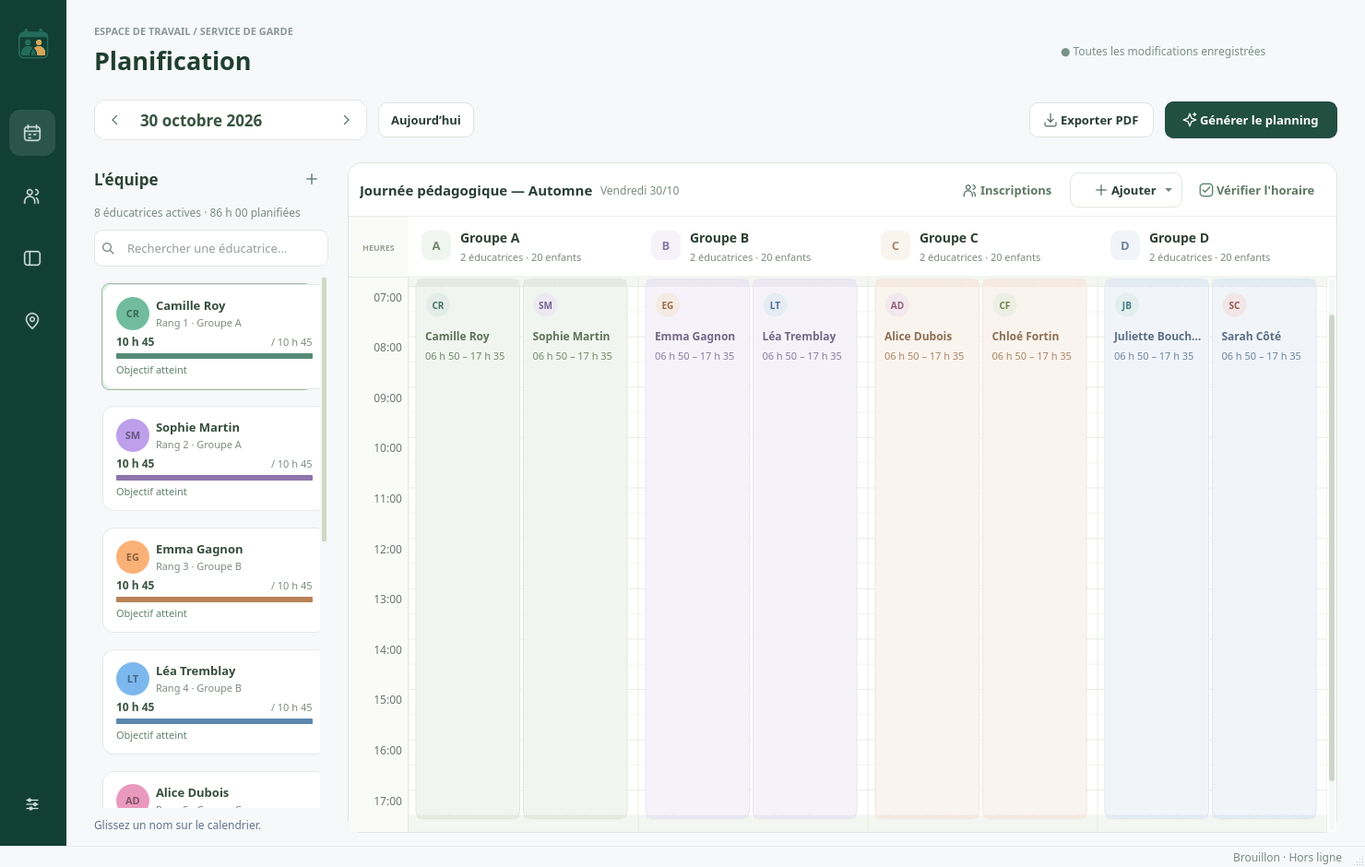
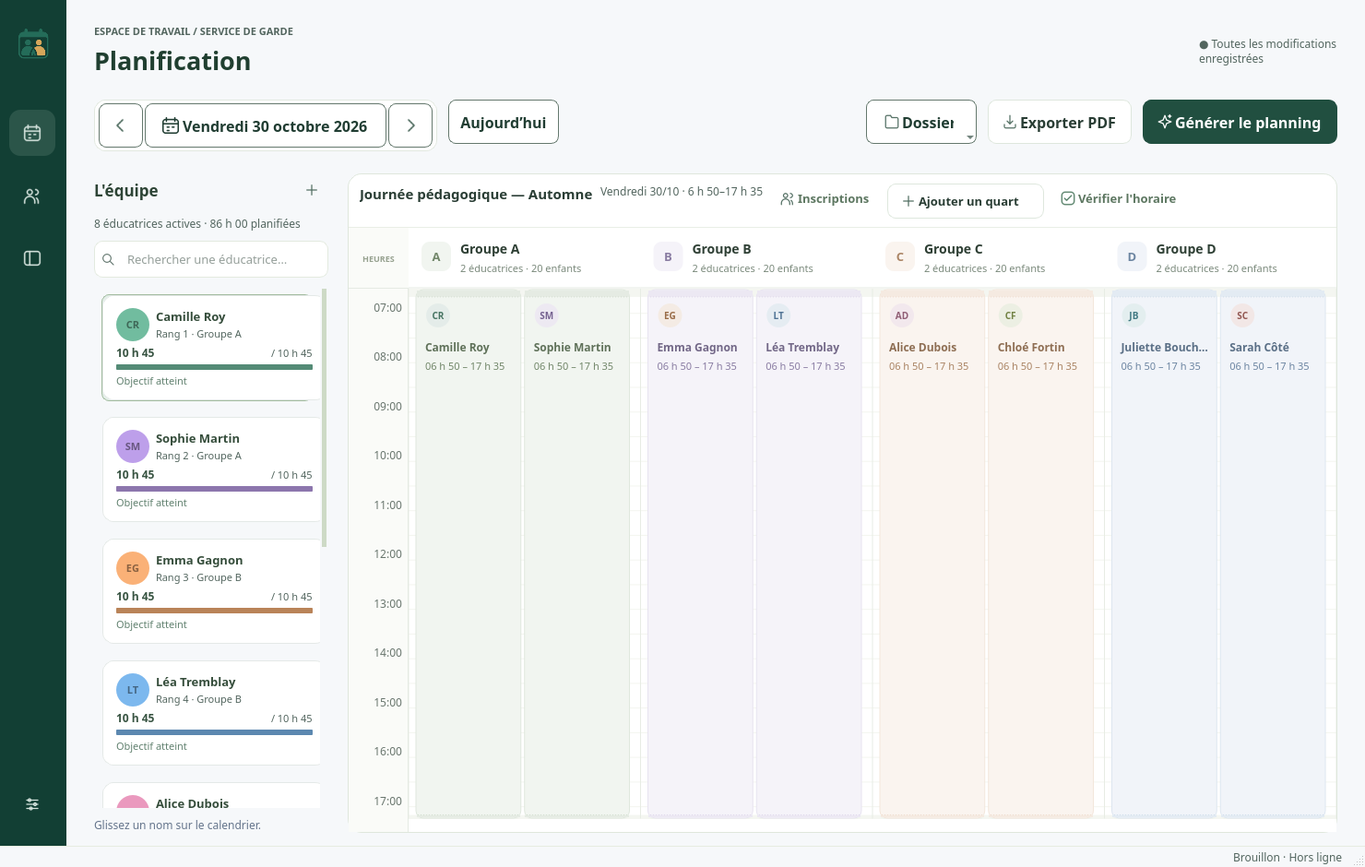
Présenter professionnellement la version 0.2.1, son origine familiale et ses contrôles de lisibilité

diff --git a/README.md b/README.md
@@ -1,97 +1,123 @@
-# Planificateur — Service de garde
+<p align="center">
+  <img src="gardeplan/assets/logo.svg" width="76" alt="Logo du Planificateur — Service de garde">
+</p>
 
-Application de bureau en français pour planifier **une journée pédagogique à la fois** dans un service de garde scolaire au Québec. Les données demeurent sur le poste, dans SQLite. Aucun compte, serveur ou abonnement ; aucun accès réseau dans l'application.
+<h1 align="center">Planificateur — Service de garde</h1>
 
-## Version 0.2.0 — planification d’une journée pédagogique
+<p align="center"><strong>Version 0.2.1 · Portable, sans installation</strong></p>
 
-![Aperçu du tableau de planification](docs/apercu-interface.png)
+<p align="center">
+  <strong>Des horaires clairs pour chaque journée pédagogique.</strong><br>
+  Une application de bureau en français, pour Windows et macOS, entièrement utilisable hors ligne.
+</p>
 
-- Écran inspiré de la référence fournie : navigation vert foncé, calendrier blanc et blocs pastel, fiches avec initiales.
-- Une date et un nom facultatif par journée ; aucune vue hebdomadaire dans le parcours de planification.
-- Calendrier quotidien, groupes en colonnes, quarts à la minute, glisser-déposer et redimensionnement.
-- Couleur distincte attribuée à chaque création d’éducatrice, modifiable ; rang choisi de **1 à 11**, avec rangs intermédiaires libres.
-- Heures cibles/garanties/maximales, disponibilités, absences et préférences **pour la journée**.
-- Journées nommées et répartition des inscriptions en groupes de taille configurable.
-- Activités et locaux indépendants des quarts ; alertes de couverture et de conflits.
-- Validation continue, proposition automatique CP-SAT, quarts verrouillés et annulation.
-- Historique, statut, archives et duplication indépendants pour chaque date ; sauvegardes locales. Les anciennes semaines restent conservées et consultables par journée.
-- **Un seul PDF général**, lettre paysage, selon le modèle fourni : huit éducateurs par page, grille 7 h–18 h, couleurs par groupe, coupures et interruptions laissées vides.
+<p align="center">
+  <a href="https://github.com/GraphicShack/Planificateur-Service-de-garde/releases/download/v0.2.1/Planificateur-SDG-0.2.1-Windows-x64-Portable.zip">Télécharger pour Windows</a>
+  &nbsp;·&nbsp;
+  <a href="https://github.com/GraphicShack/Planificateur-Service-de-garde/releases/download/v0.2.1/Planificateur-SDG-0.2.1-macOS-arm64-Portable.zip">Télécharger pour Mac</a>
+  &nbsp;·&nbsp;
+  <a href="docs/GUIDE.md">Guide d’utilisation</a>
+</p>
 
-Les règles initiales sont : ouverture à 7 h avec deux éducatrices dès 6 h 50, fermeture à 17 h 30 avec deux jusqu'à 17 h 35, relève de quinze minutes, couverture continue et ratio de 1/20 avec au moins deux éducatrices par groupe actif. Le ratio et les paramètres restent configurables. Les buffers rémunérés n'assurent pas automatiquement la couverture des enfants.
+![Aperçu du planificateur avec des données fictives](docs/apercu-interface.png)
 
-## Version prête à utiliser, sans installation
+[Voir le sélecteur de journée accessible](docs/selection-journee.png)
 
-La version **0.2.0** regroupe la planification quotidienne, les couleurs automatiques, les rangs de 1 à 11 et le nouveau PDF unique. La publication de cette livraison a été autorisée explicitement par le responsable du projet.
+## L’histoire du projet
 
-La livraison principale est un **ZIP portable**, disponible dans les [téléchargements publics du projet](https://github.com/GraphicShack/Planificateur-Service-de-garde/releases/latest). **Aucune connexion GitHub n'est nécessaire.**
+J’ai commencé ce projet pour aider ma mère à répondre à un besoin informatique concret : préparer les horaires d’un service de garde. Elle avait besoin d’un outil simple pour répartir son équipe, ajuster les heures et produire un document facile à imprimer.
 
-- [Télécharger pour Windows 64 bits](https://github.com/GraphicShack/Planificateur-Service-de-garde/releases/download/v0.2.0/Planificateur-SDG-0.2.0-Windows-x64-Portable.zip).
-- [Télécharger pour Mac Apple Silicon, macOS 15+](https://github.com/GraphicShack/Planificateur-Service-de-garde/releases/download/v0.2.0/Planificateur-SDG-0.2.0-macOS-arm64-Portable.zip).
+Derrière une grille d’horaire se cachent beaucoup de détails : les inscriptions changent, les éducatrices doivent se relayer, les pauses doivent être couvertes et personne ne peut laisser un groupe sans surveillance. Le logiciel s’est construit autour de ces besoins, avec une priorité constante : rendre la planification plus claire et plus facile à utiliser.
 
-Décompressez le dossier complet dans un emplacement autorisé en écriture ou sur une clé USB, puis ouvrez **`Planificateur-SDG.exe`** sous Windows ou **`Planificateur-SDG.app`** sous macOS. Aucun programme d’installation, Python, compte ni connexion Internet n’est nécessaire sur le poste cible. Gardez le dossier complet : les horaires et sauvegardes restent dans son sous-dossier **`donnees`**. Les liens GitHub Actions servent aux diagnostics de compilation et peuvent exiger une connexion ; les utilisateurs téléchargent les ZIP de la section **Releases**.
+Aujourd’hui, le planificateur se concentre sur une journée pédagogique à la fois, de sa préparation jusqu’à l’impression de l’horaire.
 
-Depuis la version **0.1.2**, le démarrage Mac gère les copies temporaires AppTranslocation : il retrouve le dossier portable d’origine ou vous demande de le sélectionner, puis rouvre les données de ce dossier. Aucun réglage de sécurité n’est modifié.
+## L’essentiel, dans un seul espace
 
-Les contrôles de construction vérifient le mode portable et l’écriture réelle des données à côté du logiciel, puis refont le contrôle après extraction du ZIP. Le poste doit permettre l’exécution de ce logiciel portable et l’écriture dans le dossier choisi.
+- **Choisir une journée** dans un calendrier lisible, utilisable au clavier, avec la date complète toujours affichée.
+- **Organiser l’équipe** : une couleur attribuée à chaque nouvelle éducatrice, des heures journalières et un rang de 1 à 11. Les rangs intermédiaires peuvent rester libres.
+- **Préparer les groupes** à partir des inscriptions et de la taille souhaitée des groupes.
+- **Ajuster les quarts à la minute** par glisser-déposer, redimensionnement ou saisie exacte, avec pauses et temps de préparation.
+- **Vérifier la couverture** et demander une proposition automatique respectant les contraintes et les quarts verrouillés.
+- **Enregistrer et retrouver les horaires** depuis le bouton Dossier : ouverture, duplication, historique et sauvegardes locales.
+- **Imprimer un seul PDF général**, au format lettre paysage, avec huit éducateurs maximum par page et une couleur stable par groupe. Les interruptions restent vides.
 
-## Construire sur Mac
+L’interface se consacre aux horaires. Chaque date conserve ses propres inscriptions, affectations, heures et versions.
 
-Sur un Mac de compilation équipé de Python 3.12 :
+## Une journée, des règles explicites
 
-```bash
-bash scripts/build-macos.sh
-```
+| Repère | Configuration de départ |
+| --- | --- |
+| Présence du personnel | **6 h 50 à 17 h 35** |
+| Accueil des enfants | **7 h à 17 h 30** |
+| Préparation et fermeture | Deux éducatrices pour ouvrir et deux pour fermer |
+| Relève | Quinze minutes de présence commune |
+| Couverture | Continue, avec au moins deux éducatrices par groupe actif |
+| Ratio de départ | Un éducateur pour vingt enfants, configurable |
 
-Le résultat est `dist/macos/Planificateur-SDG-<version>-macOS-<architecture>-Portable.zip`. Une construction cible `arm64` ou `x86_64`, selon le Python natif utilisé. L’application reste dans son dossier portable ; aucun déplacement vers Applications n’est demandé. Voir la [procédure macOS](docs/DISTRIBUTION_MACOS.md).
+Les heures sont calculées en minutes entières. La présence, la rémunération et la couverture des enfants sont distinguées : une pause ou un temps de préparation ne constitue pas automatiquement de la surveillance. Le ratio configuré décrit le fonctionnement demandé ; il n’est pas présenté comme une disposition réglementaire.
 
-Vous pouvez aussi lancer **« Vérifier et construire macOS »** dans GitHub Actions et récupérer l’artefact **`Planificateur-SDG-Portable-macOS-<architecture>`** après réussite. Depuis votre Mac, le workflow **Windows** construit séparément le ZIP `.exe` sur un runner Windows.
+## Prise en main
 
-## Construire pour Windows
+1. Téléchargez le ZIP correspondant à votre ordinateur depuis les [versions publiées](https://github.com/GraphicShack/Planificateur-Service-de-garde/releases/latest).
+2. Extrayez **tout le dossier** dans un emplacement où vous pouvez enregistrer des fichiers, par exemple Documents.
+3. Ouvrez **Planificateur-SDG.exe** sous Windows ou **Planificateur-SDG.app** sous macOS.
 
-Sur un poste de compilation Windows avec Python 3.12 64 bits :
+Aucune installation de Python, aucun compte et aucun abonnement ne sont nécessaires sur le poste utilisateur. La version Mac proposée cible **Apple Silicon et macOS 15 ou plus récent**.
 
-```powershell
-powershell -ExecutionPolicy Bypass -File .\scripts\build-windows.ps1
-```
+Vos données restent dans le sous-dossier **donnees**, à côté du programme. Gardez le dossier complet et fermez le logiciel avant de le déplacer. Pour une mise à jour, faites une sauvegarde et conservez votre dossier **donnees** dans la nouvelle version extraite.
 
-Le résultat principal est **`dist/Planificateur-SDG-Portable.zip`**. Le script par défaut ne dépend pas d’Inno Setup et n’exécute aucune installation ou désinstallation système. Il teste le binaire, le dossier portable et l’archive extraite. Le workflow **« Vérifier et construire Windows »** remet l’artefact **`Planificateur-SDG-Portable-Windows`** contenant le ZIP et ses comptes rendus. Voir la [procédure Windows](docs/DISTRIBUTION_WINDOWS.md).
+## Un horaire prêt à imprimer
 
-Les versions **0.2.0** ont réussi **158 tests chacune**, ainsi que les contrôles natifs après extraction du ZIP. Les [résultats réellement vérifiés](docs/ETAT_VERIFICATION.md) donnent les exécutions et rapports correspondants. La publication exige l’accord du responsable pour un SHA précis, enregistré dans `.github/release-request.json`, ou une confirmation manuelle avec ce SHA. Les changements ordinaires du code ne sont pas publiés automatiquement. Le workflow **Publier les téléchargements portables** exige les deux constructions réussies du code approuvé et les rapports natifs. Chaque livraison contient les ZIP directement utilisables, les rapports et les sommes SHA-256. Augmentez la version avant de publier une nouvelle livraison ; une version publiée reste figée.
+Le PDF reprend le modèle de journée pédagogique fourni : titre à gauche, date à droite, noms des éducateurs puis grille de **6 h 50 à 17 h 35**, avec repères de trente minutes et blocs positionnés à la minute. Les horaires coupés apparaissent sur une même ligne ; l’en-tête, la légende et l’échelle sont repris sur chaque page.
 
-## Développement : lancer depuis les sources
+[Consulter un exemple de PDF](docs/exemple-horaire-pedagogique.pdf)
 
-Python 3.11 ou 3.12 recommandé. Le téléchargement des dépendances nécessite Internet une première fois ; l'utilisation est ensuite hors ligne.
+## Les difficultés rencontrées
 
-Sous Windows, double-cliquer sur `scripts/lancer-windows.bat`, ou dans PowerShell depuis le dossier du projet :
+**Respecter les heures réelles.** Les besoins dépassaient une simple grille par heure : il fallait conserver chaque minute et distinguer les buffers, les pauses, le temps payé et la couverture effective des groupes.
 
-```powershell
-py -3.12 -m venv .venv
-.\.venv\Scripts\python.exe -m pip install -e ".[dev]"
-.\.venv\Scripts\python.exe -m gardeplan
-```
+**Trouver une interface suffisamment simple.** Le projet a évolué vers une planification quotidienne, un calendrier plus lisible et un menu Dossier centralisé. La taille des textes, les contrastes et les zones cliquables font partie des critères de vérification.
 
-Sous Linux :
+**Livrer sans installation.** Python, Qt et les autres dépendances sont inclus dans les distributions portables. Sur Mac, une difficulté particulière venait d’AppTranslocation, qui peut lancer une copie temporaire en lecture seule. Le démarrage retrouve le dossier d’origine ou permet de le choisir. L’autorisation d’ouverture de macOS reste distincte : la distribution ne possède pas de notarisation Apple.
+
+**Préserver les horaires existants.** Le passage d’un fonctionnement hebdomadaire à des journées indépendantes a nécessité une migration avec copie de sécurité, tout en conservant les anciennes photographies et leurs historiques.
+
+**Rendre les fichiers faciles à récupérer et à imprimer.** Les téléchargements destinés aux utilisateurs sont publiés dans les Releases, accessibles sans compte GitHub. Le rendu PDF a été adapté au modèle fourni, aux coupures d’horaire et à la pagination de huit noms par page.
+
+## Données et fiabilité
+
+Les données sont enregistrées localement dans SQLite. L’application n’utilise aucun serveur distant et ne transmet pas les horaires. Les renseignements sur les élèves se limitent aux effectifs ; aucun nom d’élève n’est nécessaire.
+
+La sauvegarde automatique, l’annulation, les copies de sécurité et l’historique accompagnent le travail quotidien. Les erreurs de couverture empêchent la publication d’un horaire ; un brouillon reste enregistrable pour poursuivre les corrections.
+
+Les constructions Windows et Mac exécutent les tests puis vérifient le programme compilé, y compris après extraction du ZIP : calendrier, choix de date, SQLite, génération et PDF. Les résultats et les limites des contrôles sont détaillés dans l’[état des vérifications](docs/ETAT_VERIFICATION.md).
+
+## Documentation
+
+| Besoin | Document |
+| --- | --- |
+| Utiliser le planificateur | [Guide d’utilisation](docs/GUIDE.md) |
+| Comprendre les règles et la couverture fonctionnelle | [Exigences et contrôles](docs/EXIGENCES.md) |
+| Comprendre le code et les données | [Architecture](docs/ARCHITECTURE.md) |
+| Construire une version Windows | [Distribution Windows](docs/DISTRIBUTION_WINDOWS.md) |
+| Construire une version Mac | [Distribution macOS](docs/DISTRIBUTION_MACOS.md) |
+| Consulter les résultats de tests | [État des vérifications](docs/ETAT_VERIFICATION.md) |
+
+<details>
+<summary><strong>Pour les développeurs</strong></summary>
+
+Le projet utilise Python 3, PySide6, SQLite, OR-Tools CP-SAT et ReportLab. Les paquets autonomes sont construits nativement avec PyInstaller. Python 3.12 64 bits est utilisé pour les distributions.
+
+Après création et activation d’un environnement virtuel :
 
 ```sh
-python3 -m venv .venv
-.venv/bin/python -m pip install -e '.[dev]'
-.venv/bin/python -m gardeplan
-```
-
-`python -m gardeplan --example` ouvre une base d'exemple distincte, contenant des noms fictifs. Sans cet argument, l'application démarre avec la dernière journée sauvegardée ou une journée vide. `--database chemin.sqlite` permet de choisir un autre emplacement. Les fichiers SQLite personnels sont exclus de Git.
-
-## Tests et documentation
-
-```sh
+python -m pip install -e '.[dev]'
+python -m gardeplan
 python -m pytest -q
 ```
 
-Pour les tests graphiques sans écran, définir `QT_QPA_PLATFORM=offscreen`.
+`python -m gardeplan --example` utilise une base distincte avec des données fictives. Les dépendances sont téléchargées pendant la préparation du poste de développement ; le logiciel livré fonctionne ensuite hors ligne.
 
-- [Guide d'utilisation](docs/GUIDE.md)
-- [Architecture et conventions](docs/ARCHITECTURE.md)
-- [Matrice des exigences et limites](docs/EXIGENCES.md)
-- [Résultats réellement vérifiés et contrôles restants](docs/ETAT_VERIFICATION.md)
-- [Exemple du PDF unique (deux pages)](docs/exemple-horaire-pedagogique.pdf)
+La génération automatique recherche parmi des quarts candidats. Une absence de solution dans ces candidats ne prouve pas l’impossibilité de tout horaire théorique ; la proposition est vérifiée avant acceptation.
 
-Le solveur choisit parmi des quarts candidats : un échec de cette recherche n'est pas une preuve universelle d'impossibilité. Les restrictions écrites en notes libres ne sont pas interprétées ; saisir les contraintes obligatoires dans les champs structurés. Toute proposition est validée avant acceptation et toute publication comportant une erreur est refusée.
+</details>

diff --git a/docs/GUIDE.md b/docs/GUIDE.md
@@ -6,9 +6,9 @@ L’équipe reste à gauche et le calendrier occupe le reste de l’écran. Les 
 
 - **Ajouter** propose un quart ou une activité.
 - **Vérifier** ouvre le détail des alertes ; **Fermer** redonne toute la place au calendrier. La validation continue même lorsque ce panneau est fermé.
-- **Menu → Organisation** contient les groupes, locaux, profils et règles.
+- **Menu → Organisation** contient les groupes, profils et règles.
 - **Menu → Affichage** permet de régler le zoom, le magnétisme et la visibilité du panneau de l’équipe.
-- **Menu** regroupe aussi l’annulation, la sauvegarde manuelle, le statut, l’historique et les sauvegardes locales.
+- **Dossier** regroupe l’enregistrement, l’ouverture des journées, la duplication, l’historique et les sauvegardes. **Menu** conserve les règles, le statut, l’affichage et l’annulation.
 
 ## Préparer une journée pédagogique
 
@@ -16,9 +16,9 @@ L’équipe reste à gauche et le calendrier occupe le reste de l’écran. Les 
 2. Cliquez sur le **+ de L’équipe**. Une couleur encore inutilisée est proposée automatiquement ; vous pouvez la changer dans le profil. Choisissez le **rang de 1 à 11** : le rang 1 est le plus ancien, et des rangs peuvent rester libres (1, 4, 9, par exemple). Aucun profil n’est renuméroté automatiquement.
 3. Saisissez les heures cibles, garanties et maximales **pour cette journée**. Une cible de zéro signifie « à définir ». Précisez les disponibilités et absences si nécessaire.
 4. Cliquez sur **Inscriptions** : indiquez le nombre d’enfants, la taille souhaitée des groupes et le nom facultatif de la journée. Les groupes sont préparés pour cette seule date. Le minimum de deux éducatrices et le ratio configuré restent contrôlés.
-5. Ajoutez les locaux depuis l’icône de lieu à gauche si vous prévoyez des activités.
+5. Ajoutez les quarts ou demandez une proposition automatique. L’interface gère uniquement les horaires.
 
-Une nouvelle date reprend les profils et paramètres utiles. Ses inscriptions, quarts et activités restent vides ; les absences de l’ancienne date ne sont pas recopiées. Pour reprendre aussi un horaire complet, utilisez **Menu → Journées et historique → Dupliquer cette journée** et choisissez une date vide.
+Une nouvelle date reprend les profils et paramètres utiles. Ses inscriptions et quarts restent vides ; les absences de l’ancienne date ne sont pas recopiées. Pour reprendre aussi un horaire complet, utilisez **Dossier → Dupliquer cette journée** et choisissez une date vide.
 
 ## Planifier dans le calendrier
 
@@ -36,13 +36,9 @@ Pour une journée ouverte de 7 h à 17 h 30, prévoyez deux éducatrices dès 6 
 
 Pour une relève à 12 h 30, l'éducatrice entrante peut commencer sa présence à 12 h 15 avec quinze minutes de préparation avant sa couverture de 12 h 30. L'éducatrice sortante reste présente pendant ces quinze minutes. Le besoin de couverture du groupe doit rester satisfait, même pendant les pauses et les relèves.
 
-## Activités et locaux
-
-Une activité se planifie séparément des quarts. Changer « Jeux extérieurs » de la cour au parc ne modifie pas les heures des éducatrices. Les conflits de lieu, capacités et disponibilités apparaissent dans les alertes. La responsabilité et la couverture découlent des affectations réellement présentes.
-
 ## Lire et corriger les alertes
 
-Les erreurs empêchent la publication, mais permettent de sauvegarder un brouillon. Elles concernent notamment un manque de personnel, un chevauchement de groupes pour une même éducatrice, une indisponibilité ou un conflit de local. Les avertissements signalent les écarts d'heures ou préférences.
+Les erreurs empêchent la publication, mais permettent de sauvegarder un brouillon. Elles concernent notamment un manque de personnel, un chevauchement de groupes pour une même éducatrice, une indisponibilité ou une limite d’heures. Les avertissements signalent les écarts d'heures ou préférences.
 
 Après une modification, consultez le compteur **Vérifier** et cliquez dessus pour ouvrir la liste des alertes. Les messages indiquent la journée, l'intervalle et le groupe concernés, avec une piste de correction lorsqu'elle est disponible.
 
@@ -52,9 +48,9 @@ Cliquez sur « Générer ». Le moteur respecte les contraintes obligatoires qu'
 
 ## Sauvegarder, revenir en arrière et exporter
 
-Sauvegardez régulièrement et utilisez l'export de sauvegarde locale avant un changement important. Les anciennes versions de chaque journée restent consultables dans **Menu → Journées et historique**. Une restauration crée une nouvelle version ; une duplication permet de réutiliser une journée. Une publication conserve sa photographie historique.
+Sauvegardez régulièrement et utilisez l'export de sauvegarde locale avant un changement important. Les anciennes versions de chaque journée restent consultables dans **Dossier → Historique des versions**. Une restauration crée une nouvelle version ; une duplication permet de réutiliser une journée. Une publication conserve sa photographie historique.
 
-**Exporter PDF** enregistre directement un seul horaire général de la journée, sans choix de formats individuels. Le document reprend le modèle fourni : lettre paysage, titre à gauche, date à droite, colonne des noms puis grille 7 h–18 h avec repères de 30 minutes, huit éducateurs maximum par page. Les blocs indiquent leur groupe et leurs heures exactes ; un même groupe garde la même couleur sur toutes les pages. Les pauses, rémunérées ou non, et les interruptions restent simplement vides. Aucun compteur ni colonne d’activité n’est ajouté. **Menu → Aperçu avant impression** ouvre ce même document. Pour une sauvegarde informatique complète, utilisez la sauvegarde locale SQLite ; un PDF sert à consulter ou imprimer et ne remplace pas la base.
+**Exporter PDF** enregistre directement un seul horaire général de la journée, sans choix de formats individuels. Le document reprend le modèle fourni : lettre paysage, titre à gauche, date à droite, colonne des noms puis grille 6 h 50–17 h 35 avec repères de 30 minutes, huit éducateurs maximum par page. Les blocs indiquent leur groupe et leurs heures exactes ; un même groupe garde la même couleur sur toutes les pages. Les pauses, rémunérées ou non, et les interruptions restent simplement vides. Aucun compteur ni colonne d’activité n’est ajouté. **Menu → Aperçu avant impression** ouvre ce même document. Pour une sauvegarde informatique complète, utilisez la sauvegarde locale SQLite ; un PDF sert à consulter ou imprimer et ne remplace pas la base.
 
 ## Ouvrir la version portable, sans installation
 
@@ -90,4 +86,13 @@ Les anciens objectifs hebdomadaires ne deviennent pas des obligations journaliè
 
 Les points de départ et d’arrivée des blocs sont calculés à la minute, sans arrondi à la demi-heure. Les repères de 30 minutes servent uniquement à lire la grille. Un horaire coupé crée plusieurs blocs distincts sur une seule ligne. De 1 à 8 éducateurs, le document a une page ; de 9 à 16, deux pages ; le même en-tête, la date, la légende et l’échelle sont repris sur chacune.
 
-La grille demandée commence à 7 h. La présence de préparation dès 6 h 50 reste indiquée par son heure exacte dans le bloc et une mention au bas de la page ; elle n’est pas arrondie à 7 h ni perdue. Les plages entièrement hors de la grille sont indiquées au bas de la page. Le PDF d’exemple reprend les données fictives des pièces jointes.
+La grille commence exactement à 6 h 50 et se termine à 17 h 35. Les dix minutes d’ouverture et les cinq minutes de fermeture font partie de la présence rémunérée, sans être confondues avec la couverture des enfants.
+## Choisir la date au clavier
+
+La barre affiche la date complète, par exemple « Lundi 26 octobre 2026 ». Entrée, Espace, F4 ou Alt + Flèche bas ouvrent le calendrier. Ses cases font au moins 44 × 44 pixels et les dates utilisent un texte d’au moins 16 pixels. Le mois et l’année sont modifiables directement.
+
+Dans la grille, les flèches déplacent le focus ; Page précédente/suivante change de mois et Ctrl + Page change d’année. Entrée ou Espace choisit la date ; Échap ferme sans modifier l’horaire. Le bouton Aujourd’hui choisit la date actuelle. La sélection reste simple : une journée à la fois.
+
+Le vert forêt identifie la sélection. Aujourd’hui conserve un contour et un point, même s’il est sélectionné. Les jours voisins portent leur mois abrégé ; les jours indisponibles sont barrés. Sur un petit écran ou à 200 %, les contrôles gardent leur taille et le panneau peut défiler. La barre principale remet ses actions sur plusieurs lignes ; le panneau d’équipe se replie sur une fenêtre étroite et peut être rouvert par son icône.
+
+La sauvegarde automatique est conservée. Si l’enregistrement échoue, le changement de date est annulé pour garder les modifications en cours à l’écran.

diff --git a/docs/ETAT_VERIFICATION.md b/docs/ETAT_VERIFICATION.md
@@ -2,6 +2,25 @@
 
 Les constructions et les contrôles natifs s’exécutent sur GitHub Actions. Les fichiers à remettre sont les ZIP portables d’une exécution réussie correspondant au code voulu. Une sortie compilée dont le contrôle échoue n’est pas livrée.
 
+## Livraison 0.2.1 — sélecteur lisible et horaires uniquement
+
+La [version 0.2.1](https://github.com/GraphicShack/Planificateur-Service-de-garde/releases/tag/v0.2.1) est publiée à la demande explicite du responsable du projet. Les constructions du code `61aeb0f4664ac55e880857ac90362e811bb4c5b4` ont réussi **176 tests chacune**, plus les six sous-cas de pagination et les contrôles des ZIP extraits :
+
+- [Windows — 176 tests et paquet portable vérifié](https://github.com/GraphicShack/Planificateur-Service-de-garde/actions/runs/40622502409).
+- [Mac — 176 tests et paquet portable vérifié](https://github.com/GraphicShack/Planificateur-Service-de-garde/actions/runs/40622502394).
+
+Les nouveaux contrôles utilisent les véritables événements QTest pour le clavier, le survol et le focus ; ils vérifient les passages de mois/d’année, l’année bissextile, les limites de dates, la sélection simple, l’annulation et le chargement du planning après sélection. Un sous-processus Qt6 avec `QT_SCALE_FACTOR=2` vérifie une fenêtre de 360 × 330 pixels logiques à 200 %, sans réduire les cases ni les caractères. Le diagnostic du binaire gelé ouvre et dessine aussi le sélecteur, avec une cible minimale de 44 × 44.
+
+Les paires de texte du sélecteur ont un contraste de 5,63:1 à 11,83:1. Les dates et contrôles principaux sont à 16 px minimum, le mois et l’année à 20 px gras. Les voisins affichent leur mois, les dates indisponibles sont barrées et aujourd’hui conserve contour et point sur la sélection. Les boutons principaux et les actions du calendrier se réorganisent dans une fenêtre étroite ; le sélecteur défile au besoin.
+
+Le menu Dossier a été testé avec ses vrais rappels d’enregistrement, ouverture, duplication, historique, export/import de sauvegarde. Les activités et locaux historiques ne sont plus exposés dans l’interface quotidienne et ne bloquent pas les horaires ; leur présence dans les données a fait l’objet d’un test de conservation.
+
+Le calendrier et le PDF utilisent les bornes exactes 6 h 50 et 17 h 35. Un quart quotidien extérieur à la plage configurée est signalé. Le nouvel exemple PDF a été rendu et inspecté avec huit éducateurs fictifs et des heures conformes aux règles de couverture.
+
+Les aperçus publiés ont été produits par le code réel avec l’adaptateur Qt5 temporaire du poste Linux, non livré. Les vérifications Qt6 proviennent des exécutions natives ci-dessus. Un second aperçu local à 200 % confirme un DPR de 2, des cases de 44 pixels minimum et une police de 16 pixels ; il complète le test natif sans le remplacer.
+
+Le premier passage a révélé un nom d’énumération Qt5 utilisé dans le test d’annulation. Le test a été adapté à Qt6 et les deux suites complètes ont ensuite réussi. Aucun contournement ou test ignoré n’a été introduit.
+
 ## Livraison 0.2.0 approuvée
 
 Le code approuvé et publié est `46ab53061d9ed010f9f7f1a2b5cc32eedd458284`. Le code applicatif est identique au premier contrôle `407924c88a13385e598e46d7508a3bb420b5acee` ; le contexte de publication GitHub a été ajusté. Les deux constructions ont réussi **158 tests chacune**, puis les contrôles natifs des dossiers portables et des ZIP extraits :

diff --git a/docs/ARCHITECTURE.md b/docs/ARCHITECTURE.md
@@ -18,6 +18,9 @@ Le Planificateur — Service de garde est une application de bureau Python 3 / P
 | `pedagogical_pdf.py` | Grille lettre paysage du modèle fourni, huit lignes par page, géométrie exacte et interruptions vides. |
 | `ui/calendar.py` | Calendrier quotidien, manipulation graphique et repères d'alertes. |
 | `ui/forms.py` | Formulaires simples et réglages détaillés. |
+| `ui/day_selector.py` | Sélection unique, grille accessible, navigation au clavier et respect des limites de dates. |
+| `ui/flow_layout.py` | Réorganisation des contrôles sans réduire les textes ni leurs zones cliquables. |
+| `ui/theme.py` | Palette Atelier commune, styles de sélection et mesure de contraste. |
 | `ui/main_window.py` | Coordination de l'interface, annulation, sauvegarde et commandes. |
 | `ui/visuals.py` | Logo et pictogrammes SVG locaux, rendus pour les écrans à haute densité. |
 | `ui/localization.py` | Locale française et traduction des boutons standard Qt. |
@@ -66,3 +69,11 @@ Les profils d’une nouvelle journée reprennent leurs objectifs journaliers si 
 Le parcours utilisateur expose un export général unique. Les anciennes fonctions d’export restent lisibles par les tests de compatibilité et ne sont plus proposées dans l’interface. Le rendu quotidien utilise Canvas/ReportLab, des éléments vectoriels et des polices embarquées. Arial du système est utilisé s’il est disponible ; sinon une police libre compatible avec ses métriques est incluse, dérivée de Liberation Sans et renommée Planificateur Sans, avec sa licence SIL-OFL.
 
 Les coordonnées reprennent la référence : page 792 × 612 pt, marges de 30 pt, colonne des noms de 163 pt, grille de 569 pt et huit lignes. Les durées entières sont converties en positions PDF uniquement au dessin. `working_intervals` retire toutes les pauses, même rémunérées ; aucun objet de légende ni libellé de pause n’est dessiné. La palette du modèle identifie les groupes sur toutes les pages, indépendamment de la couleur personnelle des éducatrices.
+
+## Interface centrée sur les horaires (0.2.1)
+
+Le bouton Dossier réutilise les commandes transactionnelles existantes. Les activités et les locaux historiques restent dans les photographies ; ils ne sont plus exposés dans la planification quotidienne et n’interviennent plus dans sa validation ou sa génération. Le composant de calendrier conserve son mode historique pour les anciens tests et interfaces internes, mais la fenêtre principale masque ces blocs.
+
+Le sélecteur remplace le QDateEdit principal en conservant une API de date et un signal dateChanged. La sélection ne change qu’à la confirmation d’un jour. La navigation des mois/années ne charge pas de planning ; une erreur de sauvegarde rétablit la date affichée. Les limites 1752–9999 et la sélection simple restent conservées. Les fenêtres réduites utilisent la réorganisation et le défilement plutôt que des polices plus petites.
+
+La présence quotidienne doit rester dans la plage définie par l’ouverture moins son buffer et la fermeture plus son buffer, soit 6 h 50–17 h 35 avec les paramètres demandés. Le calendrier n’arrondit plus ces bornes aux heures entières ; le PDF les affiche explicitement.

diff --git a/docs/EXIGENCES.md b/docs/EXIGENCES.md
@@ -1,5 +1,7 @@
 # Vérification des exigences
 
+La version 0.2.1 se concentre sur les horaires. Les anciennes fonctions d’activités et de locaux citées dans l’historique des contrôles restent des données de compatibilité ; elles ne sont plus proposées dans l’interface quotidienne.
+
 Ce document distingue les contrôles automatisables du contrôle de prise en main sur un poste Windows. Un fichier de test présent dans le projet n'est pas une preuve de réussite : consulter le résultat de `python -m pytest -q` pour l'exécution concernée.
 
 | Demande | Mise en œuvre / contrôle |
@@ -42,7 +44,7 @@ Ce document distingue les contrôles automatisables du contrôle de prise en mai
 | Versions et publication figée | Photographies complètes, déclencheurs empêchant UPDATE/DELETE ; tests de conservation. |
 | Duplication, archive et restauration | Versions nouvelles ; tests d'archivage/duplication/restauration. |
 | Export/import de sauvegardes | Sauvegarde SQLite contrôlée ; test de rejet de corruption et de checksum modifié. |
-| PDF unique selon le modèle fourni (nouvelle priorité) | Lettre paysage, grille 7 h–18 h, huit noms par page, en-tête/date/légende répétés ; coupures et pauses vides, sans compteur ni activités. |
+| PDF unique selon le modèle fourni (nouvelle priorité) | Lettre paysage, grille 6 h 50–17 h 35, huit noms par page, en-tête/date/légende répétés ; coupures et pauses vides, sans compteur ni activités. |
 | Aperçu et impression | Accès dans l'interface ; vérifier la prévisualisation et l'impression sur le poste cible. |
 | Noir et blanc | Horaires et noms restent présents dans les tableaux sans dépendre uniquement des couleurs. |
 | Annuler une action | Commandes d'annulation de la fenêtre principale ; essai de prise en main nécessaire. |
